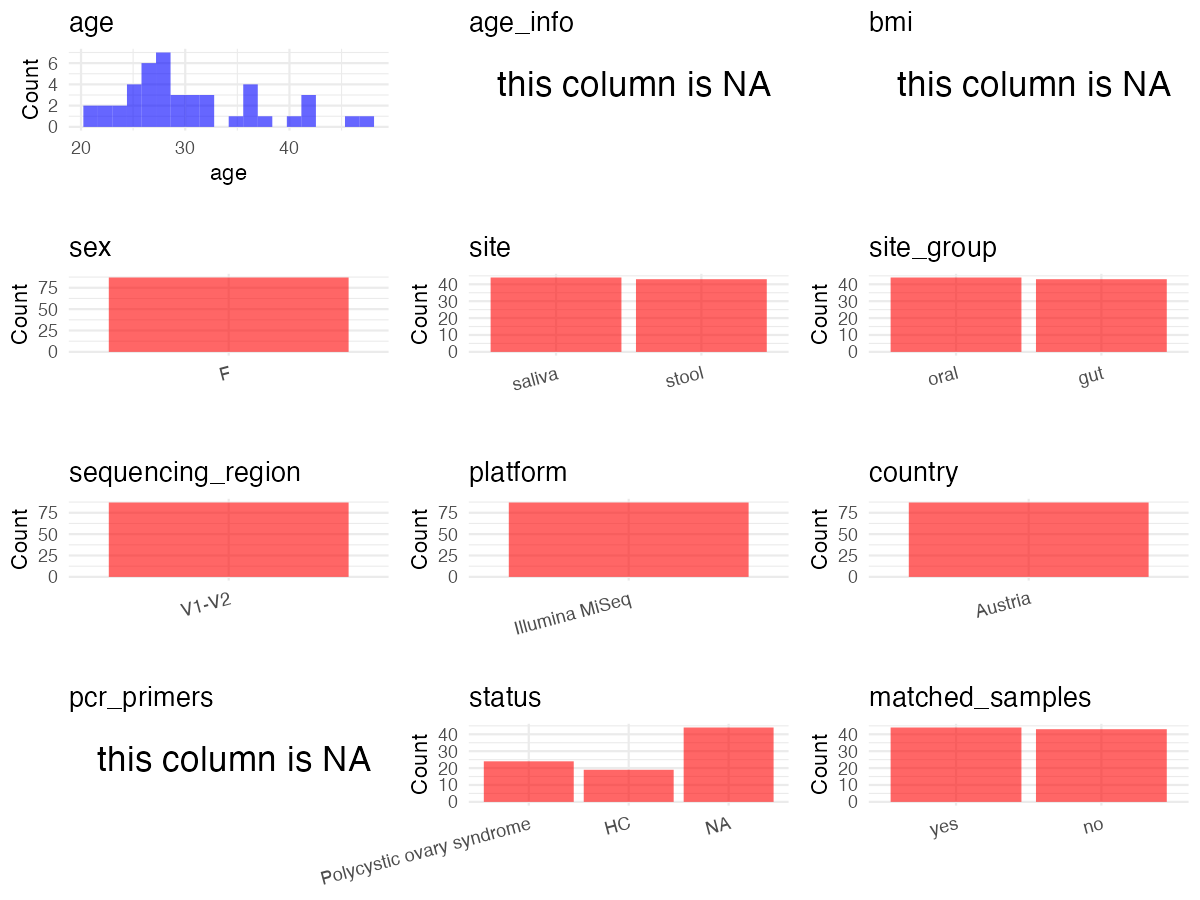
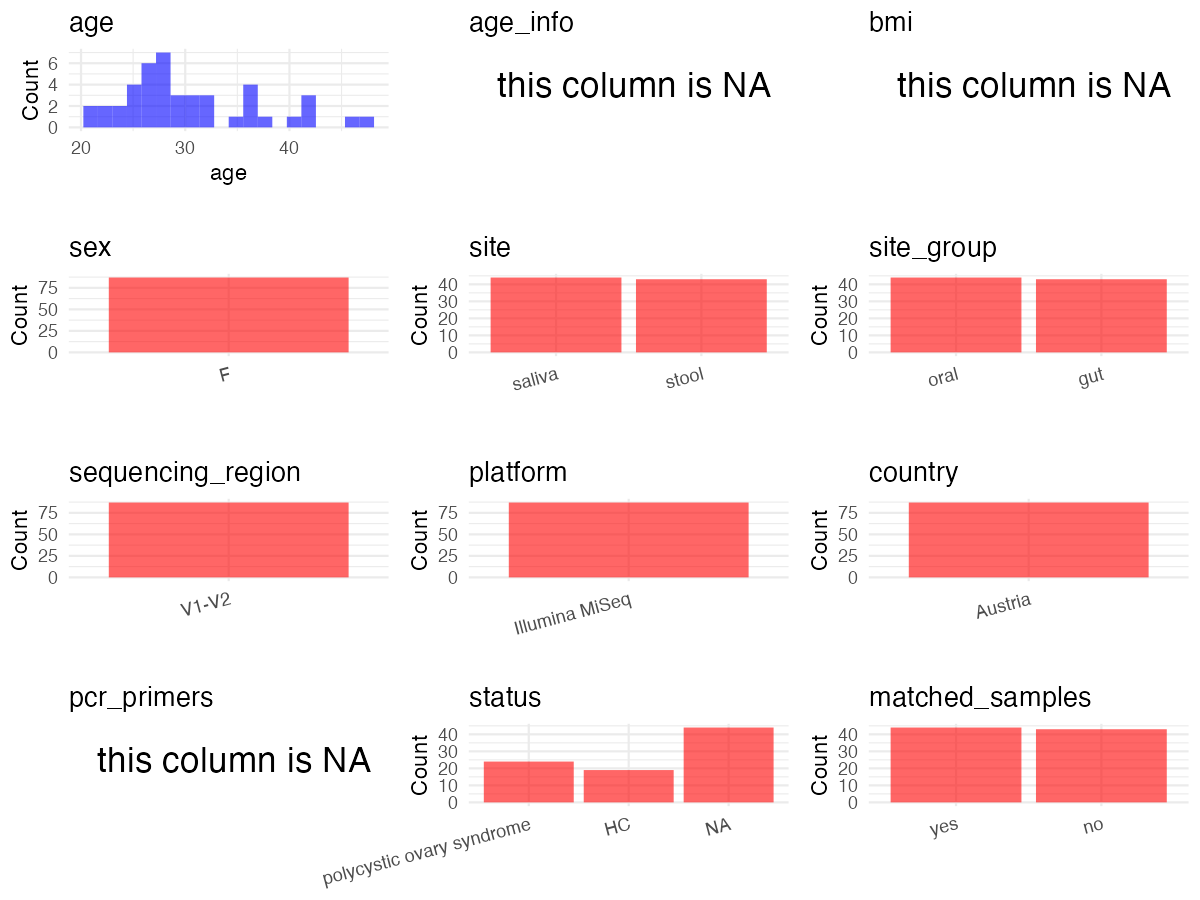
Update PRJNA326866 metadata curation files

diff --git a/data/projects/PRJNA326866/metadata_curation.md b/data/projects/PRJNA326866/metadata_curation.md
@@ -224,13 +224,13 @@ metadata <- data.frame(
   site_group = "pending",
   public_time = initial_meta$ReleaseDate,
   pcr_primers = NA,  # V1-V2 primers not named in main paper text; detailed only in supplemental S1 File (not provided)
-  title = "Alterations in Gut Microbiome Composition and Barrier Function Are Associated with Reproductive and Metabolic Defects in Women with Polycystic Ovary Syndrome (PCOS): A Pilot Study",
+  title = "Alterations in Gut Microbiome Composition and Barrier Function Are Associated with Reproductive and Metabolic Defects in Women with polycystic Ovary Syndrome (PCOS): A Pilot Study",
   disease_study = "yes",  # PCOS disease cohort compared against healthy controls
   status = case_when(
-    grepl("^P", initial_meta$host_subject_id) ~ "Polycystic ovary syndrome",
+    grepl("^P", initial_meta$host_subject_id) ~ "polycystic ovary syndrome",
     grepl("^C", initial_meta$host_subject_id) ~ "HC",
     TRUE ~ NA_character_
-  ),  # Derived from host_subject_id prefix: P = Polycystic ovary syndrome patient, C = healthy Control
+  ),  # Derived from host_subject_id prefix: P = polycystic ovary syndrome patient, C = healthy Control
   matched_samples = "pending",
   is_time_series = "no",  # From paper: "There was no follow-up visit"; all sample names contain T0
   stringsAsFactors = FALSE
